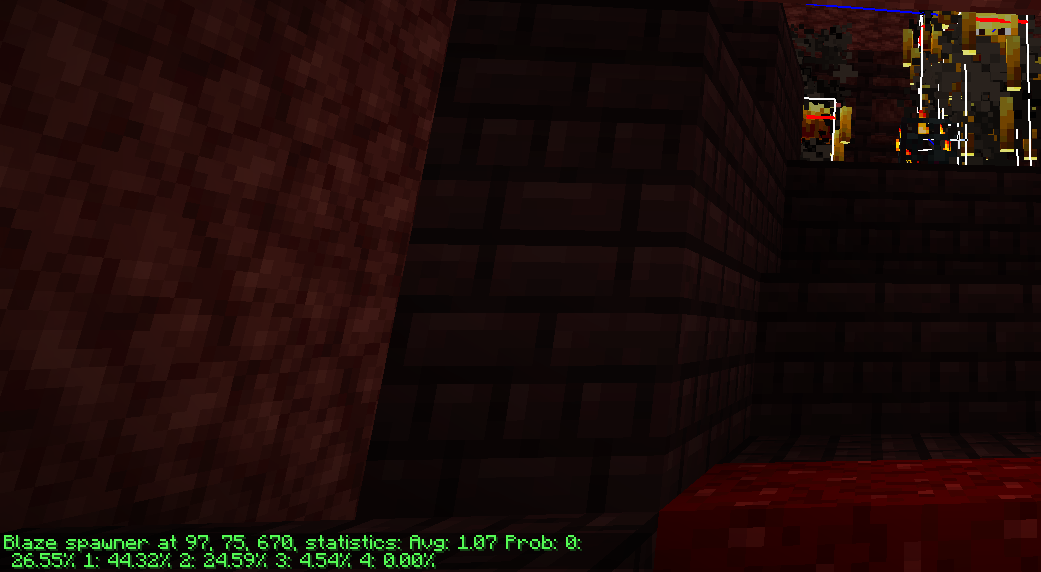
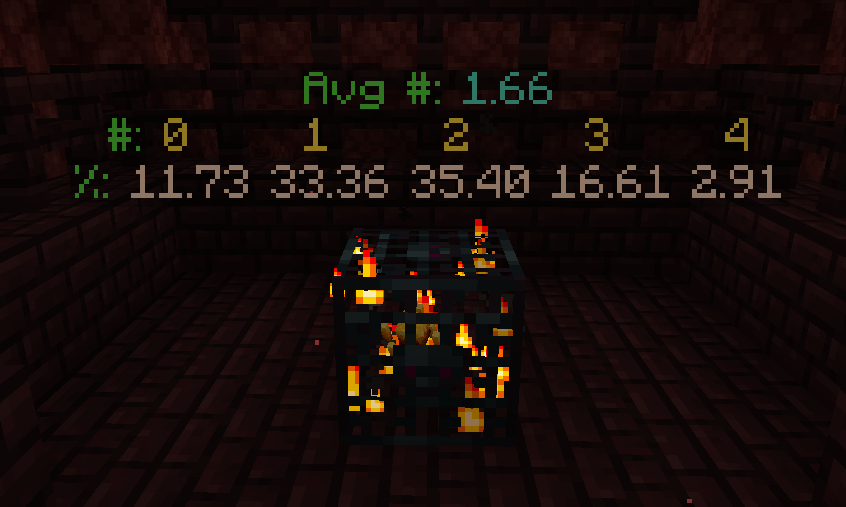
Add Holographic Text

diff --git a/src/main/java/me/logwet/marathon/mixin/client/spawner/SpawnerRendererMixin.java b/src/main/java/me/logwet/marathon/mixin/client/spawner/SpawnerRendererMixin.java
@@ -1,0 +1,81 @@
+package me.logwet.marathon.mixin.client.spawner;
+
+import com.mojang.blaze3d.vertex.PoseStack;
+import me.logwet.marathon.Marathon;
+import me.logwet.marathon.util.HoloTextRenderer;
+import me.logwet.marathon.util.SpawnerInfo;
+import net.minecraft.ChatFormatting;
+import net.minecraft.client.renderer.MultiBufferSource;
+import net.minecraft.client.renderer.blockentity.BlockEntityRenderDispatcher;
+import net.minecraft.client.renderer.blockentity.BlockEntityRenderer;
+import net.minecraft.client.renderer.blockentity.SpawnerRenderer;
+import net.minecraft.network.chat.Component;
+import net.minecraft.network.chat.TextComponent;
+import net.minecraft.world.level.block.entity.SpawnerBlockEntity;
+import net.minecraft.world.phys.Vec3;
+import org.spongepowered.asm.mixin.Mixin;
+import org.spongepowered.asm.mixin.injection.At;
+import org.spongepowered.asm.mixin.injection.Inject;
+import org.spongepowered.asm.mixin.injection.callback.CallbackInfo;
+
+@Mixin(SpawnerRenderer.class)
+public abstract class SpawnerRendererMixin extends BlockEntityRenderer<SpawnerBlockEntity> {
+    public SpawnerRendererMixin(BlockEntityRenderDispatcher blockEntityRenderDispatcher) {
+        super(blockEntityRenderDispatcher);
+    }
+
+    @Inject(method = "render", at = @At("HEAD"))
+    private void onRender(
+            SpawnerBlockEntity spawnerBlockEntity,
+            float f,
+            PoseStack poseStack,
+            MultiBufferSource multiBufferSource,
+            int i,
+            int j,
+            CallbackInfo ci) {
+        SpawnerInfo spawnerInfo = Marathon.getSpawnerInfo(spawnerBlockEntity.getBlockPos());
+        if (spawnerInfo != null) {
+            StringBuilder numText = new StringBuilder();
+            StringBuilder probText = new StringBuilder();
+
+            for (int k = 0; k <= spawnerInfo.getNumTrials(); k++) {
+                numText.append(k);
+                probText.append(String.format("%.2f", spawnerInfo.getProbabilities()[k] * 100D));
+
+                if (k < spawnerInfo.getNumTrials()) {
+                    numText.append("      ");
+                    probText.append(" ");
+                }
+            }
+
+            Component[] components =
+                    new Component[] {
+                        new TextComponent("Avg #: ")
+                                .withStyle(ChatFormatting.GREEN)
+                                .append(
+                                        new TextComponent(
+                                                        String.format("%.2f", spawnerInfo.getAvg()))
+                                                .withStyle(ChatFormatting.AQUA)),
+                        new TextComponent("#: ")
+                                .withStyle(ChatFormatting.GREEN)
+                                .append(
+                                        new TextComponent(numText.toString())
+                                                .withStyle(ChatFormatting.YELLOW)),
+                        new TextComponent("%: ")
+                                .withStyle(ChatFormatting.GREEN)
+                                .append(
+                                        new TextComponent(probText.toString())
+                                                .withStyle(ChatFormatting.WHITE))
+                    };
+
+            HoloTextRenderer.renderTexts(
+                    poseStack,
+                    multiBufferSource,
+                    this.renderer.camera.rotation(),
+                    this.renderer.getFont(),
+                    i,
+                    new Vec3(0.0D, 0.5D, 0.0D),
+                    components);
+        }
+    }
+}

diff --git a/src/main/java/me/logwet/marathon/util/HoloTextRenderer.java b/src/main/java/me/logwet/marathon/util/HoloTextRenderer.java
@@ -1,0 +1,87 @@
+package me.logwet.marathon.util;
+
+import com.mojang.blaze3d.vertex.PoseStack;
+import com.mojang.math.Matrix4f;
+import com.mojang.math.Quaternion;
+import net.minecraft.client.Minecraft;
+import net.minecraft.client.gui.Font;
+import net.minecraft.client.renderer.MultiBufferSource;
+import net.minecraft.network.chat.Component;
+import net.minecraft.network.chat.FormattedText;
+import net.minecraft.world.phys.Vec3;
+
+public class HoloTextRenderer {
+    public static void renderText(
+            PoseStack poseStack,
+            MultiBufferSource multiBufferSource,
+            Quaternion cameraRotation,
+            Font font,
+            int i,
+            int v,
+            Vec3 transform,
+            Component component) {
+        poseStack.pushPose();
+
+        poseStack.translate(0.5D + transform.x, 1.5D + transform.y, 0.5D + transform.z);
+        poseStack.mulPose(cameraRotation);
+        poseStack.scale(-0.025F, -0.025F, 0.025F);
+
+        Matrix4f matrix4f = poseStack.last().pose();
+
+        float g = Minecraft.getInstance().options.getBackgroundOpacity(0.25F);
+        int k = (int) (g * 255.0F) << 24;
+        float h = (float) (-font.width((FormattedText) component) / 2);
+
+        font.drawInBatch(
+                (FormattedText) component,
+                h,
+                v,
+                553648127,
+                false,
+                matrix4f,
+                multiBufferSource,
+                true,
+                k,
+                i);
+
+        font.drawInBatch(
+                (FormattedText) component,
+                h,
+                v,
+                -1,
+                false,
+                matrix4f,
+                multiBufferSource,
+                false,
+                0,
+                i);
+
+        poseStack.popPose();
+    }
+
+    private static int getHeightOffset(int i, int h, int b) {
+        return i * (h + b);
+    }
+
+    public static void renderTexts(
+            PoseStack poseStack,
+            MultiBufferSource multiBufferSource,
+            Quaternion cameraRotation,
+            Font font,
+            int i,
+            Vec3 transform,
+            Component[] components) {
+
+        for (int j = 0; j < components.length; j++) {
+            renderText(
+                    poseStack,
+                    multiBufferSource,
+                    cameraRotation,
+                    font,
+                    i,
+                    getHeightOffset(j, font.lineHeight, 1),
+                    transform,
+                    components[j]);
+        }
+    }
+}

diff --git a/README.md b/README.md
@@ -4,7 +4,7 @@ Misc utilities mod for 1.16 speedrunners.
 
 ## Utilities
 
-### Spawner Simulation
+### Spawner Statistics
 
 ![spawner_info](assets/spawner_info.png)
 
